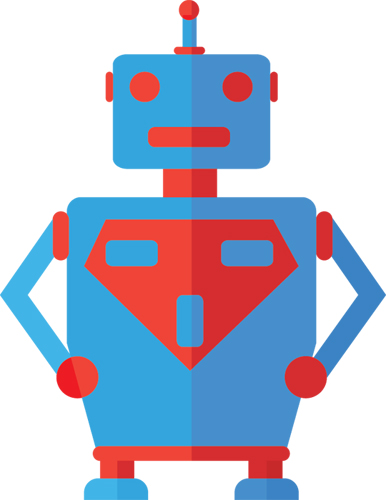
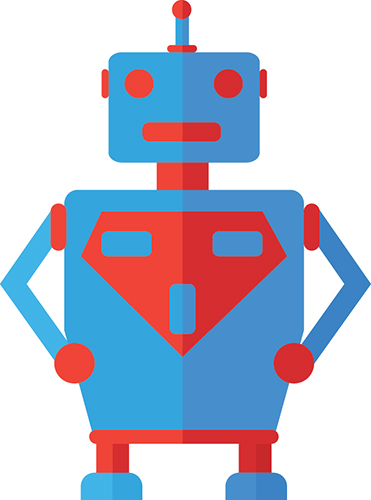
fixed images and padding

diff --git a/openwrt/index.html b/openwrt/index.html
@@ -1,6 +1,6 @@
 ---
 layout: fixed-header
-title: OpenWRT | Cucumber Tony
+title: OpenWrt | Cucumber Tony
 permalink: /openwrt/
 ---
 <div class="page-content">
@@ -9,8 +9,8 @@ permalink: /openwrt/
   </div>
 
   <div class="header-card center-cell mdl-cell--8-col mdl-card mdl-shadow--4dp mdl-typography--text-center mdl-cell--hide-tablet mdl-cell--hide-phone">
-    <h1>Manage any OpenWrt Device from the Cloud</h1>
-    <h4>Coming soon opkg install socketman.</h4>
+    <h2 style="margin-top:10px;">Manage any OpenWrt Device from the Cloud</h2>
+    <h4 style="margin-top:20px;">Coming soon: <span style="font-family:'Consolas','Courier New','Courier';">opkg install socketman</span></h4>
   </div>
 
   <div class="mat-banner mdl-grid">
@@ -30,6 +30,31 @@ permalink: /openwrt/
               Sign-up now
             </button>
           </a>
+        </div>
+      </div>
+    </div>
+  </div>
+
+  <div class="mat-banner mdl-grid">
+    <div class="center-cell mdl-cell mdl-cell--11-col">
+      <h2 class="mdl-typography--text-center">Introducing Socketman</h2>
+      <div class="mdl-grid">
+        <div class="center-cell mdl-cell mdl-cell--6-col mdl-cell--7-col-tablet mdl-cell--7-col-phonel mdl-cell--middle mdl-typography--text-center">
+          <img src="/images/pages/socketman.jpg">
+        </div>
+        <div class="center-cell mdl-cell mdl-cell--6-col mdl-cell--7-col-tablet mdl-cell--7-col-phone mdl-cell--middle">
+          <p>Download and install a pre-built firmware image onto a compatible device. A list of supported hardware can be <a href="http://docs.cucumberwifi.io/article/78-compatible-devices-access-points" target="_blank">found here</a>. Device not listed? If it's supported by <a href="https://wiki.openwrt.org/toh/start" target="_blank">OpenWrt / LEDE</a>, build your own firmware. Then, install Socketman. Job done.</p>
+          <p>The Cucumber dashboard will detect and provision your devices automatically. Monitor your networks and perform scheduled upgrades remotely. Update thousands of devices in seconds.</p>
+          <p><small>Full support for OpenWrt & LEDE is coming in Q4 2016. Register now for updates.</small></p>
+          <form action="http://news.polkaspots.com/t/r/s/hhzdjj/" method="post" id="subForm">
+            <div class="mdl-textfield mdl-js-textfield mdl-textfield--floating-label">
+              <input class="mdl-textfield__input" id="fieldEmail" name="cm-hhzdjj-hhzdjj" type="email" required/>
+              <label class="mdl-textfield__label" for="fieldEmail">Email</label>
+            </div>
+            <div>
+            <button class="mdl-button mdl-js-button mdl-button--raised mdl-js-ripple-effect mdl-button--colored" type="submit">Register</button>
+          </div>
+          </form>
         </div>
       </div>
     </div>

diff --git a/meraki/index.html b/meraki/index.html
@@ -9,11 +9,11 @@ permalink: /meraki/
   </div>
 
   <div class="header-card center-cell mdl-cell--8-col mdl-card mdl-shadow--4dp mdl-typography--text-center mdl-cell--hide-tablet mdl-cell--hide-phone">
-    <h1 style="margin-bottom:0px">Set your Meraki AP Free</h1>
-    <h4 style="margin-top:0px;">Say goodbye to licence fees</h4>
-    <p>Install our firmware onto your MR12, MR16 and MR18 to manage them from our Cucumber dashboard</p>
+    <h2 style="margin-top:10px;">Set your Meraki AP Free</h2>
+    <h4 style="margin-top:10px;">Say goodbye to licence fees</h4>
+    <p style="margin-top:20px;">Install our firmware onto your MR12, MR16 and MR18 to manage them from our Cucumber dashboard</p>
     <a style="width:130px;margin:0 auto;" href="http://docs.cucumberwifi.io/article/213-installing-cucumber-on-cisco-meraki">
-      <button style="margin-bottom:20px;" class="mdl-button mdl-js-button mdl-button--raised mdl-js-ripple-effect mdl-button--colored">
+      <button style="margin-top:20px;margin-bottom:20px;" class="mdl-button mdl-js-button mdl-button--raised mdl-js-ripple-effect mdl-button--colored">
         How To
       </button>
     </a>

diff --git a/openmesh/index.html b/openmesh/index.html
@@ -9,10 +9,10 @@ permalink: /openmesh/
   </div>
 
   <div class="header-card center-cell mdl-cell mdl-cell--8-col mdl-card mdl-shadow--4dp mdl-typography--text-center mdl-cell--hide-tablet mdl-cell--hide-phone">
-    <h1 style="margin-bottom:0px">Deploy & Manage your OpenMesh Networks Easier</h1>
-    <h3>Trying out Cucumber is as simple as 1, 2, 3.</h3>
+    <h2 style="margin-top:10px;">Deploy & Manage your OpenMesh Networks Easier</h2>
+    <h4 style="margin-top:10px;">Trying out Cucumber is as simple as 1, 2, 3.</h4>
     <a style="width:130px;margin:0 auto;" href="https://my.ctapp.io/#/create?ref=openmesh" target="_blank">
-      <button style="margin-bottom:20px;" class="mdl-button mdl-js-button mdl-button--raised mdl-js-ripple-effect mdl-button--colored">
+      <button style="margin-top:20px;margin-bottom:20px;" class="mdl-button mdl-js-button mdl-button--raised mdl-js-ripple-effect mdl-button--colored">
         Sign-up now
       </button>
     </a>

diff --git a/unifi/index.html b/unifi/index.html
@@ -11,10 +11,10 @@ redirect_from:
   </div>
 
   <div class="header-card center-cell mdl-cell mdl-cell--8-col mdl-card mdl-shadow--4dp mdl-typography--text-center mdl-cell--hide-tablet mdl-cell--hide-phone">
-    <h1 style="margin-bottom:0px">Deploy & Manage your UniFi Networks Easier</h1>
-    <h3>Trying out Cucumber is as simple as 1, 2, 3.</h3>
+    <h2 style="margin-top:10px;">Deploy & Manage your UniFi Networks Easier</h2>
+    <h4 style="margin-top:10px;">Trying out Cucumber is as simple as 1, 2, 3.</h4>
     <a style="width:130px;margin:0 auto;" href="https://my.ctapp.io/#/create?ref=unifi" target="_blank">
-      <button style="margin-bottom:20px;" class="mdl-button mdl-js-button mdl-button--raised mdl-js-ripple-effect mdl-button--colored">
+      <button style="margin-top:20px;margin-bottom:20px;" class="mdl-button mdl-js-button mdl-button--raised mdl-js-ripple-effect mdl-button--colored">
         Sign-up now
       </button>
     </a>

diff --git a/meraki/alternative.html b/meraki/alternative.html
@@ -10,9 +10,9 @@ redirect_from:
   <div class="meraki-banner">
   </div>
 
-  <div class="header-card center-cell mdl-cell--8-col mdl-card mdl-shadow--4dp mdl-typography--text-center mdl-cell--hide-tablet mdl-cell--hide-phone">
-    <h1 style="margin-bottom:0px">Replace your Meraki with Cucumber</h1>
-    <h2>Say goodbye to licence fees</h2>
+  <div class="header-card center-cell mdl-cell--10-col mdl-card mdl-shadow--4dp mdl-typography--text-center mdl-cell--hide-tablet mdl-cell--hide-phone">
+    <h2 style="margin-top:10px;">Replace your Meraki with Cucumber</h2>
+    <h4 style="margin-top:20px;">Say goodbye to licence fees</h4>
   </div>
 
   <div class="mat-banner mdl-grid">

diff --git a/aerohive/index.html b/aerohive/index.html
@@ -9,8 +9,8 @@ permalink: /aerohive/
   </div>
 
   <div class="header-card center-cell mdl-cell--8-col mdl-card mdl-shadow--4dp mdl-typography--text-center mdl-cell--hide-tablet mdl-cell--hide-phone">
-    <h1 style="margin-bottom:0px">Replace your Aerohive with Cucumber</h1>
-    <h2>Say goodbye to licence fees</h2>
+    <h2 style="margin-top:10px;">Replace your Aerohive with Cucumber</h2>
+    <h4 style="margin-top:20px;">Say goodbye to licence fees</h4>
   </div>
 
   <div class="mat-banner mdl-grid">

diff --git a/css/site.css b/css/site.css
@@ -908,7 +908,7 @@ margin-top: -80px;
   position: relative;
   z-index: 6;
   margin-top: -120px;
-  max-height: 350px;
+  padding: 20px;
 }
 
 .header-card a:hover {
@@ -936,6 +936,7 @@ margin-top: -80px;
 .supported-hardware img {
   max-height: 50px;
   max-width: 150px;
+  margin-top: 40px;
 }
 
 
